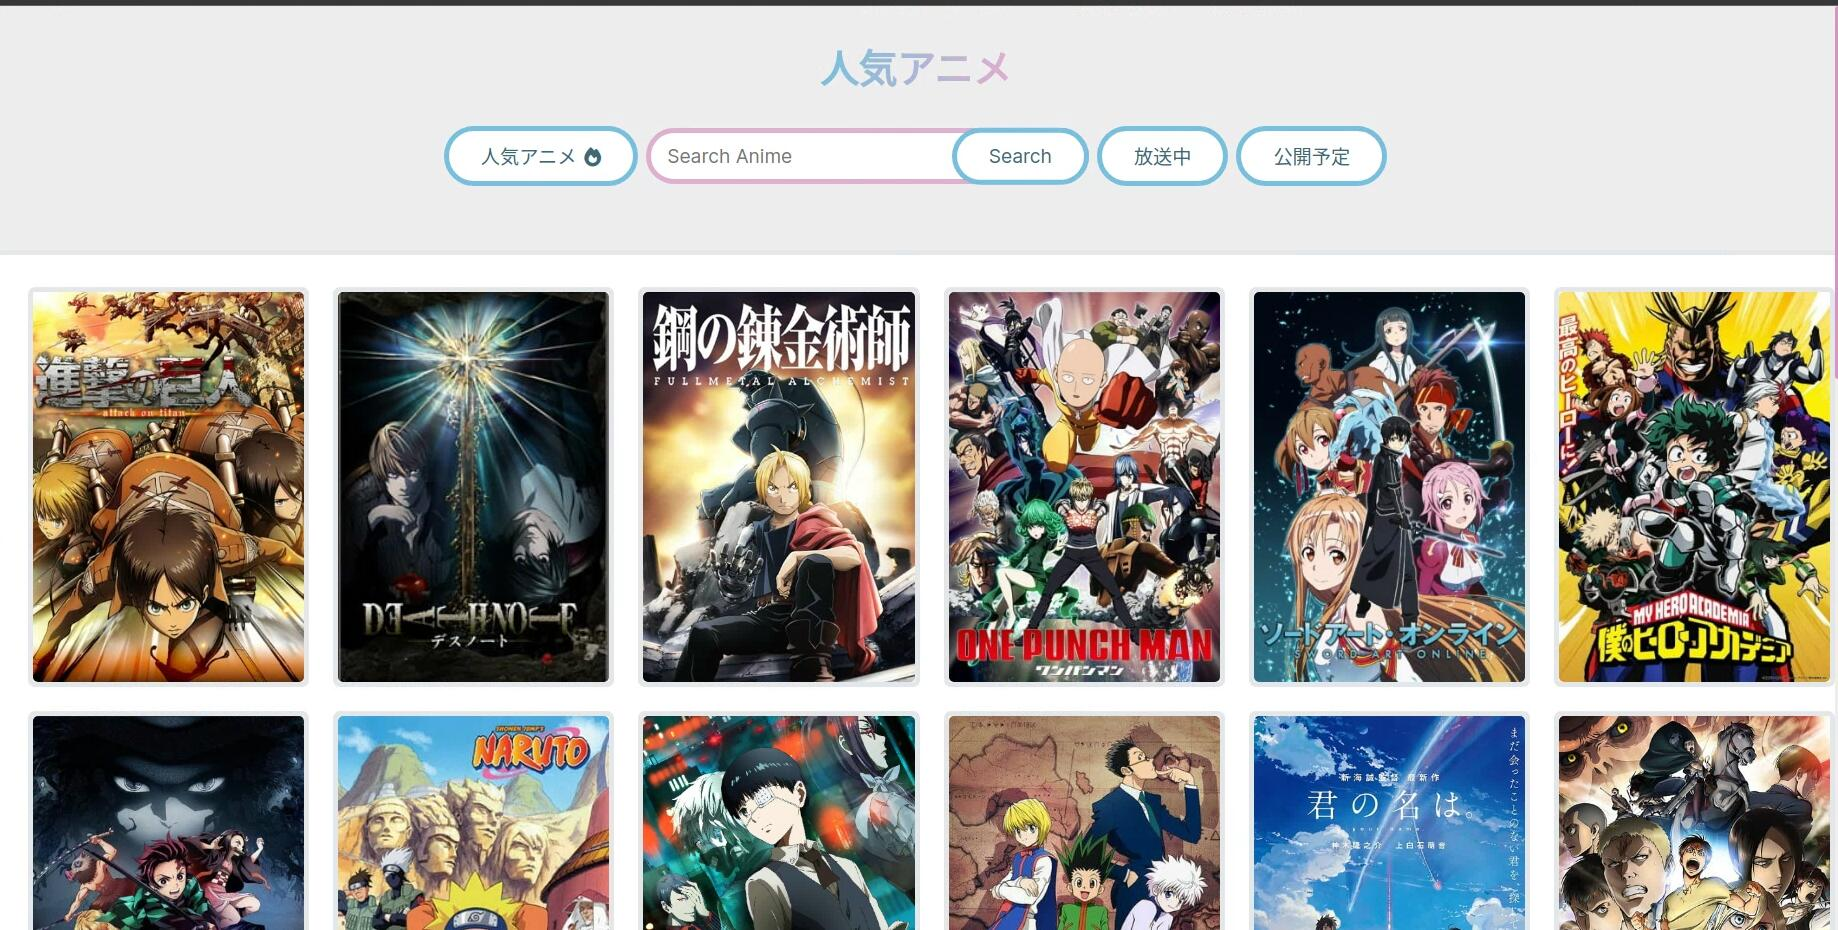
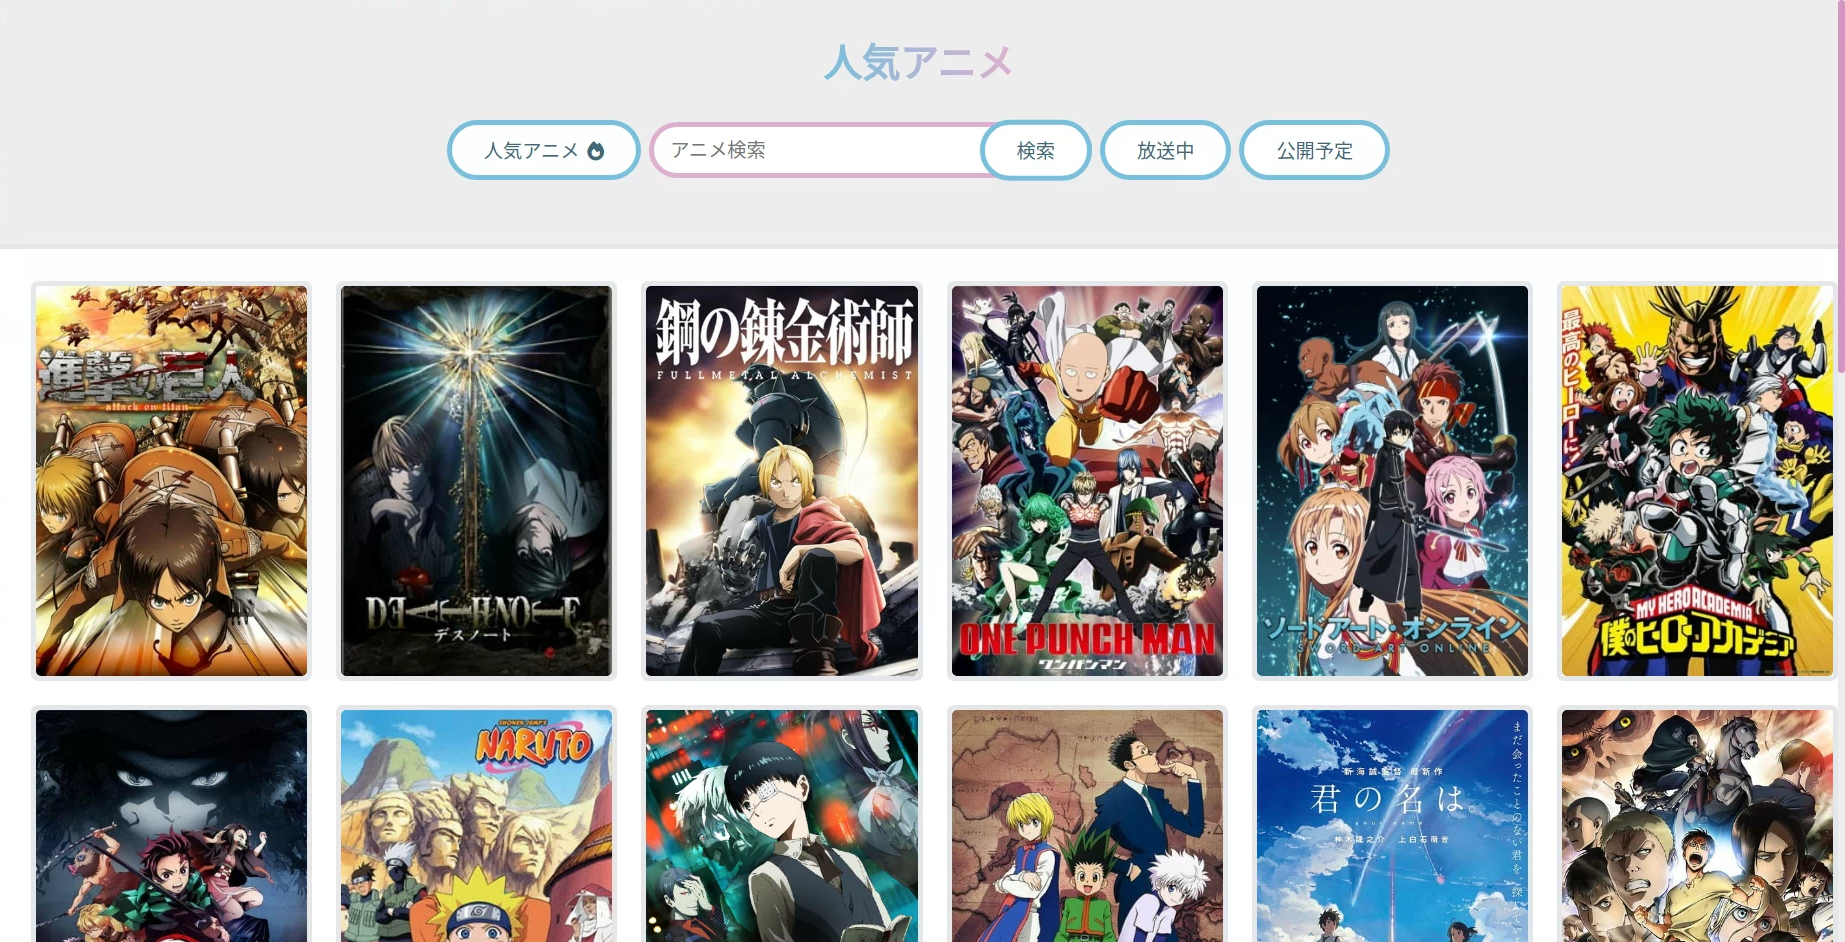
en->jp

diff --git a/src/Components/Homepage.js b/src/Components/Homepage.js
@@ -47,8 +47,8 @@ function Homepage(){
                     </div>
                     <form action="" className="search-form" onSubmit={handleSubmit}>
                         <div className="input-control">
-                            <input type="text" placeholder="Search Anime" value={search} onChange={handleChange} />
-                            <button type="submit">Search</button>
+                            <input type="text" placeholder="アニメ検索" value={search} onChange={handleChange} />
+                            <button type="submit">検索</button>
                         </div>
                     </form>
                     <div className="filter-btn airing-filter">
